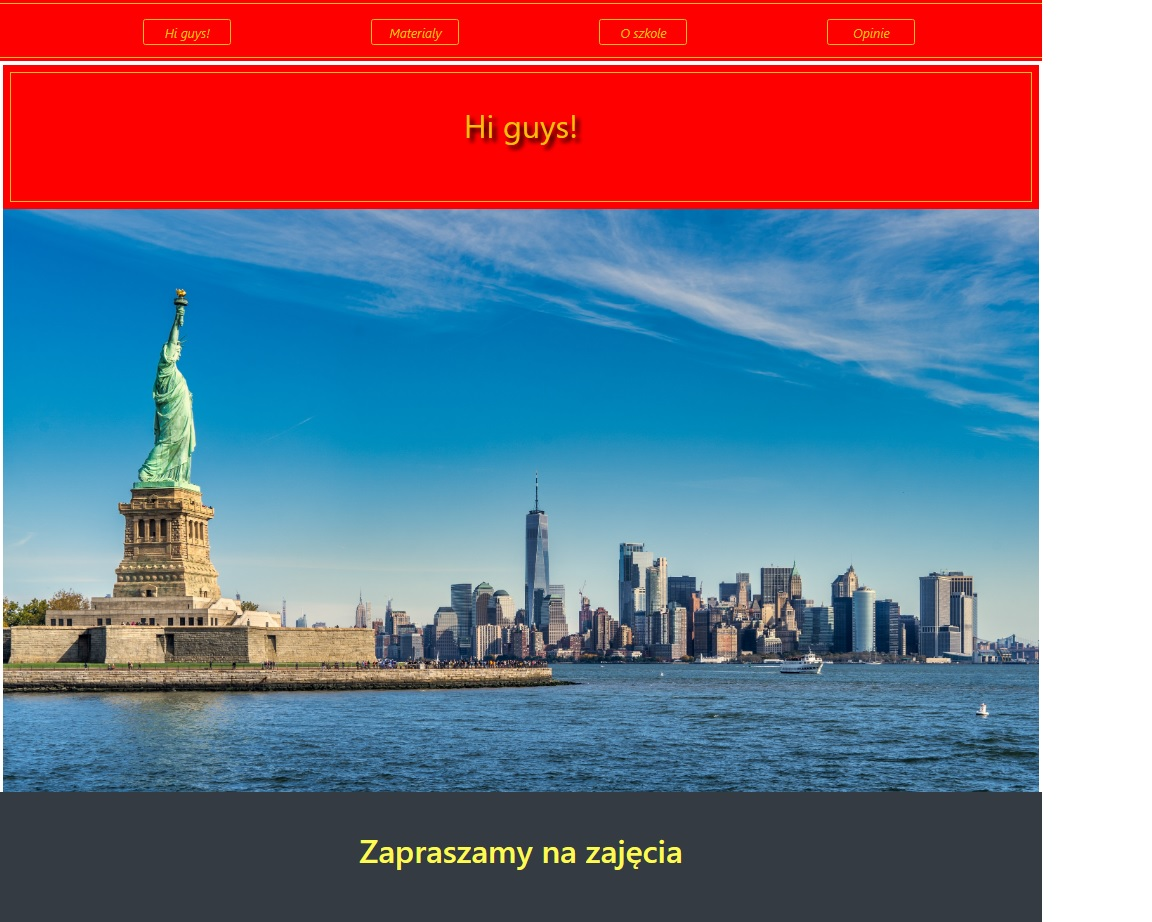
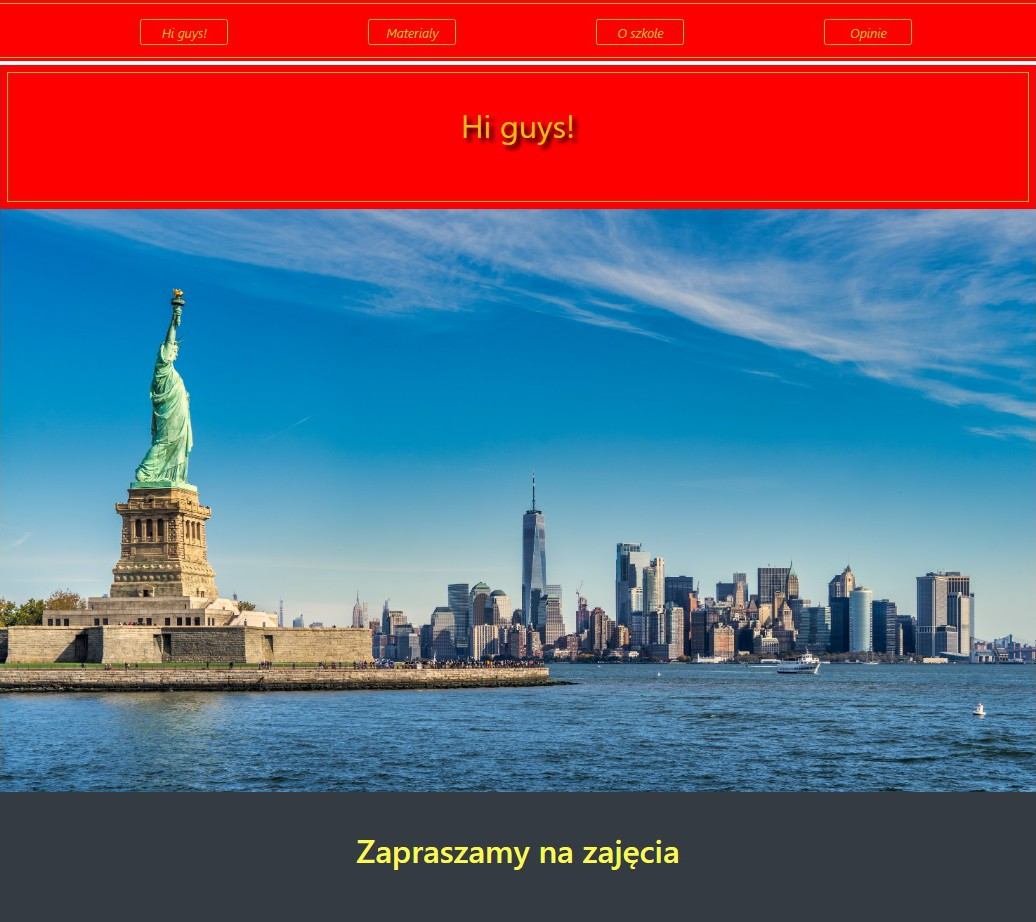
changes to animation

diff --git a/pageb/templates/index.html b/pageb/templates/index.html
@@ -12,7 +12,9 @@
 <div class="container-lg">
   <div class="position-relative">
     <img src="{% static 'bpage/images/MT.jpg' %}" class="img-fluid" alt="...">
-    <div class="position-absolute bottom-0 start-50 fs-5 text text-white translate-middle-x">Mount St. Helens, WA</div>
+    <div class="position-absolute bottom-0 start-50 fs-5 text text-white translate-middle-x d-none d-sm-block">Mount St. Helens, WA</div>
+    <div class="position-absolute bottom-0 start-50 text text-white translate-middle-x d-block d-sm-none" style="font-size: 2.0vw;">Mount St. Helens, WA</div>
+
     <div class="container position-absolute top-50" style="margin-top: -40px;">
       <div class="row">
         <div class="col-sm-4 col-3 offset-md-1  text-center text-white d-none d-sm-block" style="font-size: 2.0vw;">
@@ -20,9 +22,9 @@
           <p class = "myname">My name is </p>
           <p class = "name">Mariusz Turek</p>
         </div>
-        <div class="col-4 offset-1 offset-md-3 text-center text-white d-block d-sm-none" style="font-size: 3.0vw;">
+        <div class="col-4 offset-1 mt-3 offset-md-3 text-center text-white d-block d-sm-none" style="font-size: 3.0vw;">
           <p class ="higuys">Hi guys!</p> 
-          <p class = "myname">My name </p>
+          <p class = "myname">My name is</p>
           <p class = "name">Mariusz Turek</p>
         </div>
       </div>
@@ -39,7 +41,7 @@
 
     <div class="col-12 col-lg-6">
       <a href="https://mariusztp127.pythonanywhere.com ">
-        <img src="{% static 'bpage/images/higuys.jpg' %}" class="rounded d-block img-fluid mx-auto mb-3" height="600"  alt="...">
+        <img src="{% static 'bpage/images/higuys.jpg' %}" class="rounded d-block img-fluid mb-3" height="600"  alt="...">
       </a>
 
     </div>

diff --git a/pageb/static/bpage/style.css b/pageb/static/bpage/style.css
@@ -7,6 +7,7 @@
   position: relative;
   animation-name: animation1;
   animation-duration: 1s;
+  margin-top: 50px;
 }
 .myname {
   position: relative;
